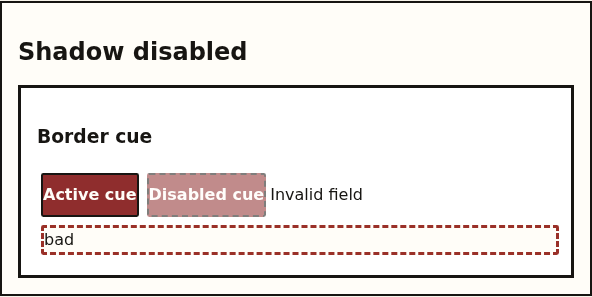
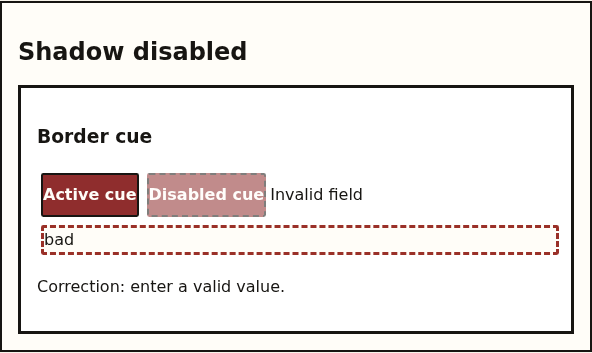
fix: tighten spike 3 shadow length validation

diff --git a/fixtures/shadows/index.html b/fixtures/shadows/index.html
@@ -11,5 +11,5 @@ body{padding:1rem;overflow-wrap:anywhere}main{max-width:60rem;margin:auto;min-wi
 <section class="shadow-case" id="nested-rtl-in-ltr"><h2>Nested RTL in LTR</h2><div dir="rtl"><div class="_nb-spike-surface" data-_nb-level="raised"><h3>Nearest RTL</h3><button class="_nb-spike-button" type="button">Nested RTL action</button></div></div></section>
 <section class="shadow-case" id="fixed-ltr" data-_nb-shadow-direction="fixed"><h2>Fixed physical in LTR</h2><button class="_nb-spike-button" type="button">Fixed LTR action</button></section>
 <section class="shadow-case" id="fixed-rtl" dir="rtl" data-_nb-shadow-direction="fixed"><h2>Fixed physical in RTL</h2><button class="_nb-spike-button" type="button">Fixed RTL action</button></section>
-<section class="shadow-case shadow-disabled" id="shadow-disabled"><h2>Shadow disabled</h2><div class="_nb-spike-surface" data-_nb-level="raised"><h3>Border cue</h3><button class="_nb-spike-button" type="button">Active cue</button><button class="_nb-spike-button" type="button" disabled>Disabled cue</button><label for="shadow-invalid">Invalid field</label><input id="shadow-invalid" aria-invalid="true" value="bad"></div></section>
+<section class="shadow-case shadow-disabled" id="shadow-disabled"><h2>Shadow disabled</h2><div class="_nb-spike-surface" data-_nb-level="raised"><h3>Border cue</h3><button class="_nb-spike-button" type="button">Active cue</button><button class="_nb-spike-button" type="button" disabled>Disabled cue</button><label for="shadow-invalid">Invalid field</label><input id="shadow-invalid" aria-invalid="true" aria-describedby="shadow-invalid-error" value="bad"><p id="shadow-invalid-error" data-_nb-error>Correction: enter a valid value.</p></div></section>
 </div></main></body></html>

diff --git a/tests/shadows.spec.js b/tests/shadows.spec.js
@@ -48,6 +48,16 @@ test.describe('Spike 3 shadow direction policy', () => {
     expect(await page.evaluate(() => document.documentElement.scrollWidth <= document.documentElement.clientWidth)).toBe(true);
   });
 
+  test('invalid shadow fixture field exposes visible correction text through aria-describedby', async ({ page }) => {
+    const field = page.locator('#shadow-invalid');
+    const describedBy = await field.getAttribute('aria-describedby');
+    expect(describedBy).toBe('shadow-invalid-error');
+    const correction = page.locator(`#${describedBy}`);
+    await expect(correction).toBeVisible();
+    await expect(correction).toContainText('Correction:');
+    expect(await field.evaluate(el => getComputedStyle(el).borderStyle)).toBe('dashed');
+  });
+
   test('shadow-disabled and forced-colors preserve non-shadow state cues', async ({ page, browserName }) => {
     const disabled = page.locator('#shadow-disabled');
     expect(await shadow(disabled.locator('._nb-spike-button').first())).toBe('none');

diff --git a/decisions/ADR-004-rtl-shadow.md b/decisions/ADR-004-rtl-shadow.md
@@ -4,7 +4,7 @@ Status: accepted for Spike 3 evidence only; disposable `_nb-spike-` recipes are 
 
 ## Decision
 
-Raised Surface and Button use one diagonal hard shadow: inline-axis offset, block-axis offset, zero blur, and semantic `--_nb-color-shadow`. The temporary `shadow.inline`, `shadow.block`, `shadow.pressInline`, and `shadow.pressBlock` roles are axis lengths/remaining pressed offsets, not complete shadow declarations. Fixture-owned values are `3px`, `4px`, `1px`, and `1px` respectively; schema validation accepts finite CSS lengths and rejects colors or full shadow lists.
+Raised Surface and Button use one diagonal hard shadow: inline-axis offset, block-axis offset, zero blur, and semantic `--_nb-color-shadow`. The temporary `shadow.inline`, `shadow.block`, `shadow.pressInline`, and `shadow.pressBlock` roles are axis lengths/remaining pressed offsets, not complete shadow declarations. Fixture-owned values are `3px`, `4px`, `1px`, and `1px` respectively. The temporary internal schema contract accepts only `0` or a finite decimal with `px`, `rem`, `em`, `ch`, `ex`, `vw`, `vh`, `vmin`, or `vmax`; percentages, physical units, functions, colors, and multi-token declarations are rejected because box-shadow offsets require lengths and this recipe does not resolve arbitrary computed syntax. This is not public API stability.
 
 The logical default falls down and inline-end. CSS `:dir(rtl)` changes the inline offset and matching press translation to negative physical x while leaving block offset positive. This follows the nearest computed direction, including nested LTR in RTL and RTL in LTR. A subtree or control marked `data-_nb-shadow-direction="fixed"` explicitly opts into fixed physical down-right art direction in both directions. No arbitrary component direction prop is exposed.
 

diff --git a/evidence/spike-3-shadows.md b/evidence/spike-3-shadows.md
@@ -7,7 +7,7 @@
 
 ## Fixture and token contract
 
-`/shadows/` contains LTR and RTL logical defaults, nested LTR-in-RTL and RTL-in-LTR cases, fixed physical subtrees in both directions, rest/active controls, and a shadow-disabled state matrix. `fixtures/inputs.mjs` owns the temporary axis lengths; core does not regain project values. The generated CSS is deterministic and emits `--_nb-shadow-inline: 3px`, `--_nb-shadow-block: 4px`, `--_nb-shadow-pressInline: 1px`, and `--_nb-shadow-pressBlock: 1px`.
+`/shadows/` contains LTR and RTL logical defaults, nested LTR-in-RTL and RTL-in-LTR cases, fixed physical subtrees in both directions, rest/active controls, and a shadow-disabled state matrix. `fixtures/inputs.mjs` owns the temporary axis lengths; core does not regain project values. The temporary internal schema contract allows only `0` or finite decimal values with `px`, `rem`, `em`, `ch`, `ex`, `vw`, `vh`, `vmin`, and `vmax`. It rejects `%`, physical units, functions, colors, multi-token strings, and NaN/infinite-like text before CSS generation; this is not public API stability. The generated CSS is deterministic and emits `--_nb-shadow-inline: 3px`, `--_nb-shadow-block: 4px`, `--_nb-shadow-pressInline: 1px`, and `--_nb-shadow-pressBlock: 1px`.
 
 ## Automated checks
 
